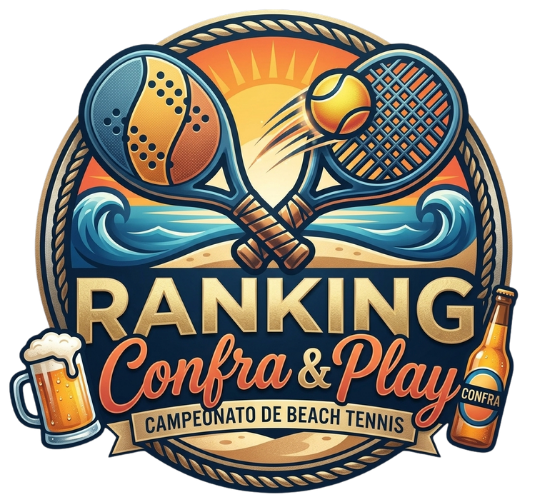
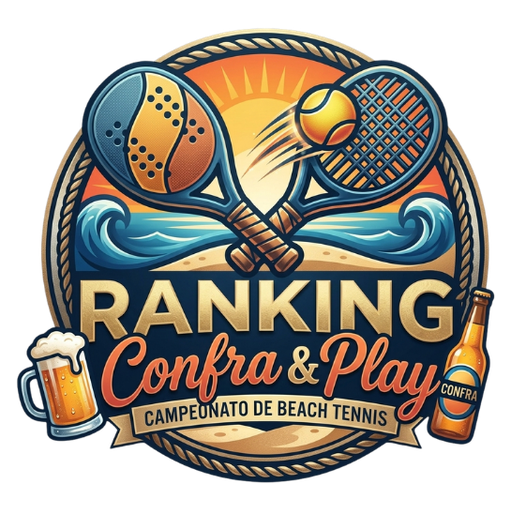
v71: ícone do app (PWA) corrigido — ícones quadrados nos tamanhos certos
icon-192/512 eram a mesma imagem 534x496 (não quadrada) declarada como 192/512, então o Chrome
ignorava e mostrava um "C" preto. Agora: ícones quadrados 192/512, versões maskable com margem,
favicon e apple-touch-icon.

Claude-Session: https://claude.ai/code/session_01WG8L7Es9JZvLBktmUJifhr

diff --git a/index.html b/index.html
@@ -27,10 +27,12 @@
     <meta name="apple-mobile-web-app-status-bar-style" content="default">
     <meta name="apple-mobile-web-app-title" content="Confra &amp; Play">
     
-    <link rel="apple-touch-icon" href="icon-192.png">
-    <link rel="apple-touch-icon" sizes="152x152" href="icon-192.png">
-    <link rel="apple-touch-icon" sizes="180x180" href="icon-192.png">
-    <link rel="apple-touch-icon" sizes="167x167" href="icon-192.png">
+    <link rel="icon" type="image/png" sizes="64x64" href="favicon.png">
+    <link rel="icon" type="image/png" sizes="192x192" href="icon-192.png">
+    <link rel="apple-touch-icon" href="apple-touch-icon.png">
+    <link rel="apple-touch-icon" sizes="152x152" href="apple-touch-icon.png">
+    <link rel="apple-touch-icon" sizes="180x180" href="apple-touch-icon.png">
+    <link rel="apple-touch-icon" sizes="167x167" href="apple-touch-icon.png">
 
    <!-- Biblioteca para gerar PDF do Ranking -->
     <script src="https://cdnjs.cloudflare.com/ajax/libs/html2pdf.js/0.10.1/html2pdf.bundle.min.js"></script>
@@ -1100,7 +1102,7 @@
     </div>
     <!-- Versão Clicável para Atualizar -->
 <div id="appVersionBadge" onclick="verificarAtualizacaoApp()" style="position: fixed; bottom: 12px; right: 12px; background: rgba(31, 41, 55, 0.85); backdrop-filter: blur(4px); color: #9ca3af; padding: 5px 12px; border-radius: 12px; font-size: 0.75rem; font-weight: 500; z-index: 1000; cursor: pointer; border: 1px solid rgba(255,255,255,0.1); box-shadow: 0 4px 10px rgba(0,0,0,0.1);" title="Toque para verificar atualizações">
-    v70 🔄
+    v71 🔄
 </div>
     </footer>
 
@@ -1659,7 +1661,7 @@
             } catch (e) { console.log("Não foi possível atualizar o resumo do histórico:", e); window.h2hJogosCache = null; }
         }
 
-        const APP_VERSION = "v70";
+        const APP_VERSION = "v71";
         let isLogged = false;
         let torneioAbertoId = null; 
         let torneioAbertoData = null; 

diff --git a/sw.js b/sw.js
@@ -1,5 +1,5 @@
-const CACHE_NAME = 'liga-bt-store-v70'; // Mude a versão sempre que atualizar!
-const CORE_FILES = ['./', './manifest.json', './icon-192.png', './icon-512.png'];
+const CACHE_NAME = 'liga-bt-store-v71'; // Mude a versão sempre que atualizar!
+const CORE_FILES = ['./', './manifest.json', './icon-192.png', './icon-512.png', './favicon.png', './icon-maskable-192.png', './icon-maskable-512.png'];
 
 // Instalação: guarda os ficheiros base (um falhar não derruba os outros)
 self.addEventListener('install', (e) => {
